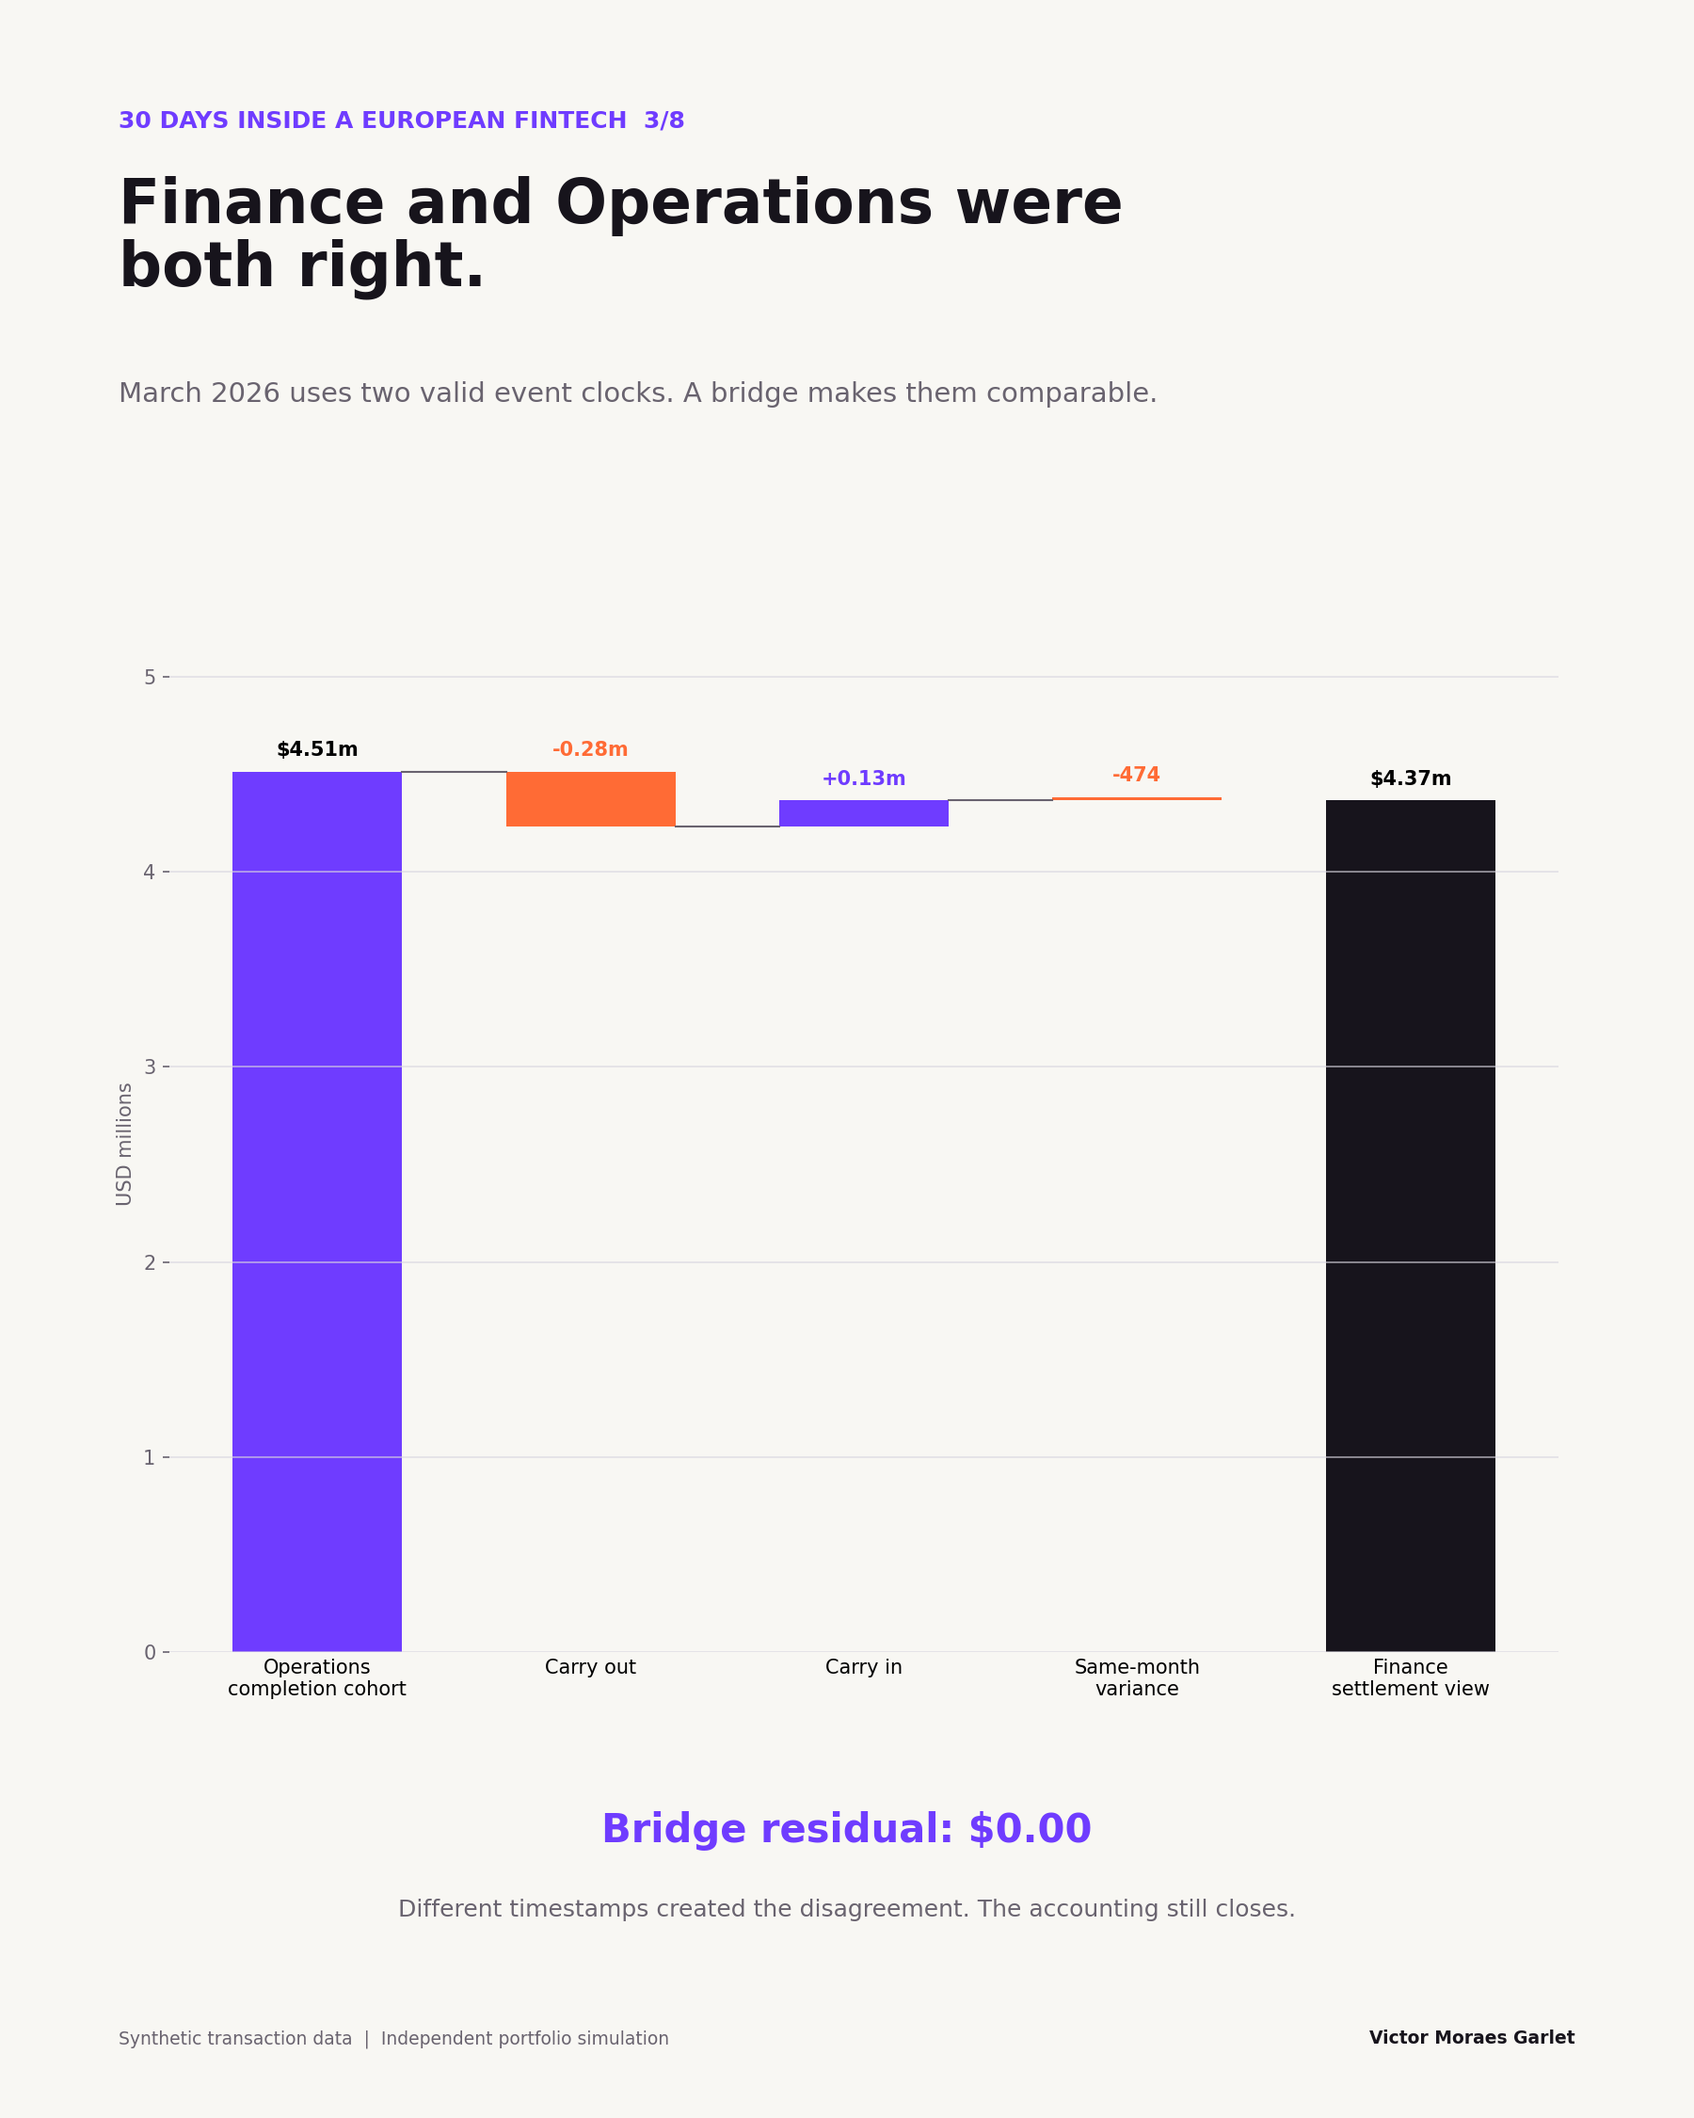
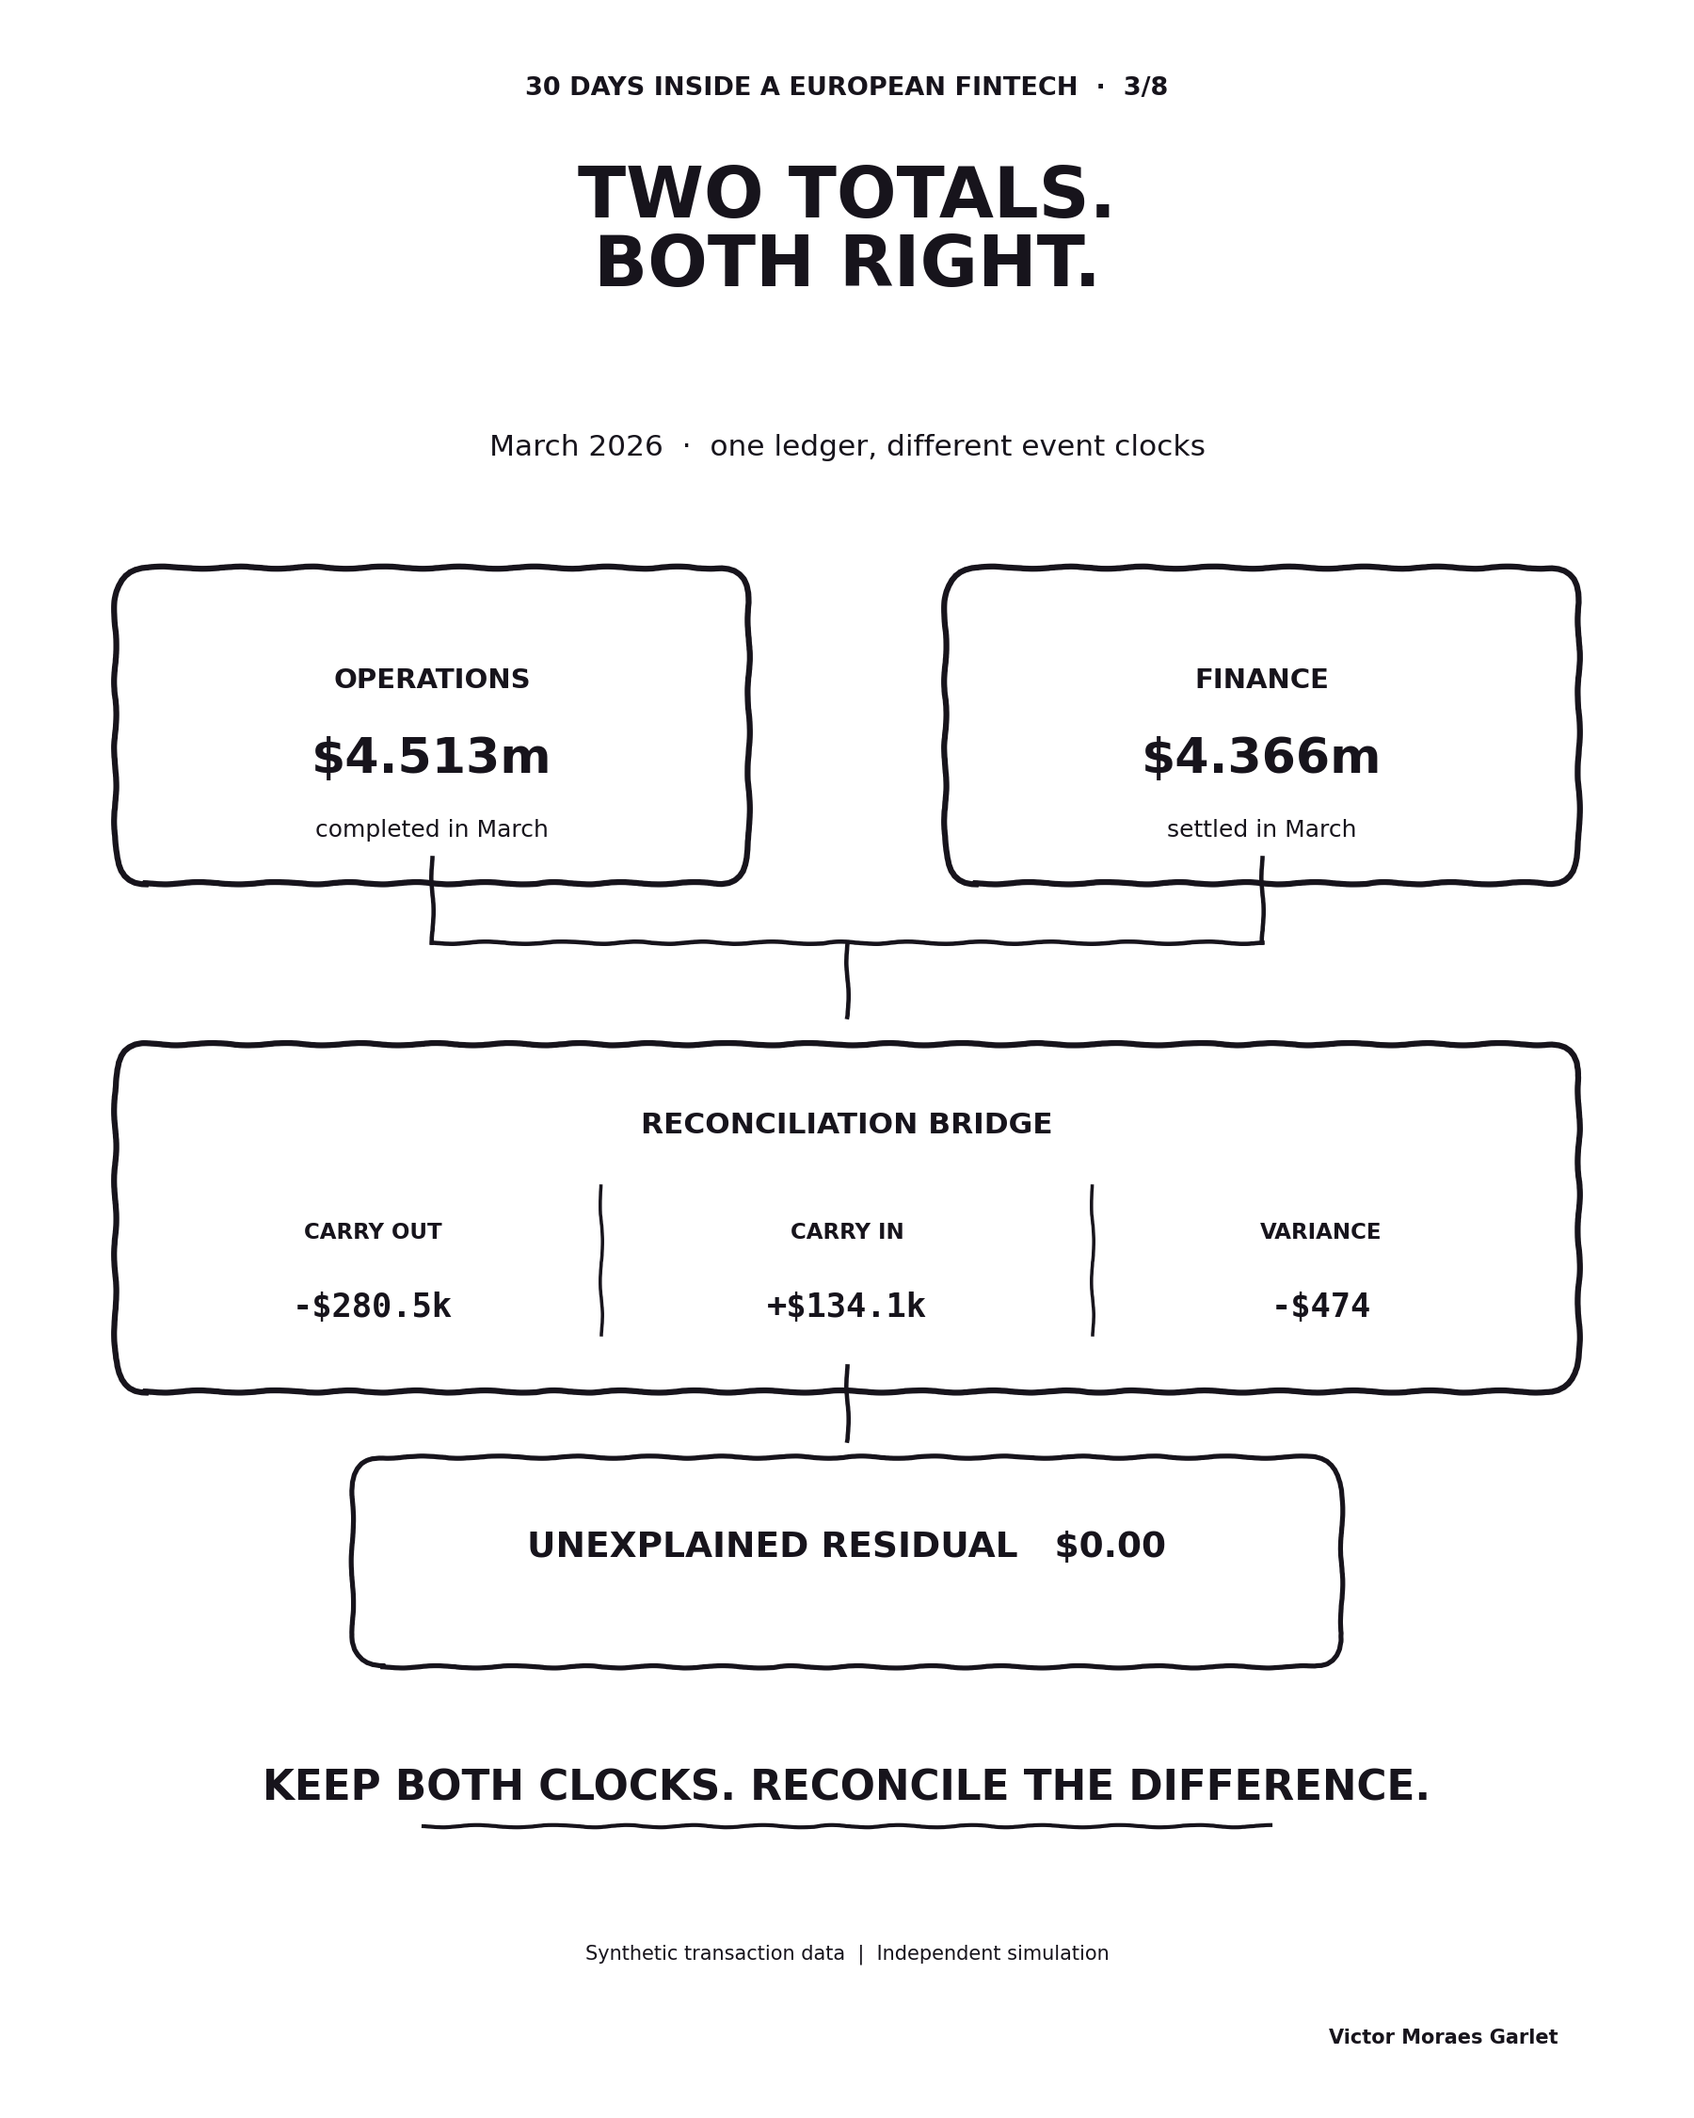
Approve and schedule episode 3

diff --git a/scripts/build_visuals.py b/scripts/build_visuals.py
@@ -200,42 +200,71 @@ def build_episode_03(connection):
         """,
     )
     start, carry_out, carry_in, variance, finance, residual = row
-    deltas = [-carry_out, carry_in, variance]
-    labels = ["Operations\ncompletion cohort", "Carry out", "Carry in", "Same-month\nvariance", "Finance\nsettlement view"]
 
-    fig, _ = base_figure(
-        3,
-        "Finance and Operations were\nboth right.",
-        "March 2026 uses two valid event clocks. A bridge makes them comparable.",
-    )
-    ax = fig.add_axes((0.10, 0.22, 0.82, 0.48), facecolor=PAPER)
-    ax.spines[:].set_visible(False)
-    ax.tick_params(axis="x", length=0, labelsize=10)
-    ax.tick_params(axis="y", colors=MUTED)
-    ax.grid(axis="y", color=LINE, linewidth=0.8, alpha=0.7)
+    fig = plt.figure(figsize=(12, 15), facecolor=WHITE)
+    ax = fig.add_axes((0, 0, 1, 1))
+    ax.set_xlim(0, 1)
+    ax.set_ylim(0, 1)
+    ax.axis("off")
 
-    positions = range(5)
-    running = start
-    ax.bar(0, start / 1_000_000, color=PURPLE, width=0.62)
-    ax.text(0, start / 1_000_000 + 0.08, f"${start / 1_000_000:.2f}m", ha="center", fontweight="bold")
-    for i, delta in enumerate(deltas, start=1):
-        next_value = running + delta
-        bottom = min(running, next_value) / 1_000_000
-        height = max(abs(delta) / 1_000_000, 0.018)
-        color = ORANGE if delta < 0 else PURPLE
-        ax.bar(i, height, bottom=bottom, color=color, width=0.62)
-        label = f"{delta / 1_000_000:+.2f}m" if abs(delta) >= 10_000 else f"{delta:+,.0f}"
-        ax.text(i, bottom + height + 0.08, label, ha="center", color=color, fontweight="bold")
-        ax.plot([i - 0.69, i - 0.31], [running / 1_000_000, running / 1_000_000], color=MUTED, linewidth=1)
-        running = next_value
-    ax.bar(4, finance / 1_000_000, color=INK, width=0.62)
-    ax.text(4, finance / 1_000_000 + 0.08, f"${finance / 1_000_000:.2f}m", ha="center", fontweight="bold")
-    ax.set_xticks(list(positions), labels)
-    ax.set_ylabel("USD millions", color=MUTED)
-    ax.set_ylim(0, max(start, finance) / 1_000_000 + 0.7)
+    def rough_card(x, y, width, height, linewidth=2.5):
+        patch = FancyBboxPatch(
+            (x, y),
+            width,
+            height,
+            boxstyle="round,pad=0.012,rounding_size=0.018",
+            linewidth=linewidth,
+            edgecolor=INK,
+            facecolor=WHITE,
+        )
+        patch.set_sketch_params(scale=1.2, length=90, randomness=2.5)
+        ax.add_patch(patch)
+
+    def rough_line(xs, ys, linewidth=2.2):
+        line, = ax.plot(xs, ys, color=INK, linewidth=linewidth)
+        line.set_sketch_params(scale=1.2, length=90, randomness=2.5)
+
+    fig.text(0.50, 0.955, "30 DAYS INSIDE A EUROPEAN FINTECH  ·  3/8", ha="center", color=INK, fontsize=13, fontweight="bold")
+    fig.text(0.50, 0.865, "TWO TOTALS.\nBOTH RIGHT.", ha="center", color=INK, fontsize=36, fontweight="bold", linespacing=1.0)
+    fig.text(0.50, 0.785, "March 2026  ·  one ledger, different event clocks", ha="center", color=INK, fontsize=15)
+
+    rough_card(0.08, 0.595, 0.35, 0.125, 3.0)
+    ax.text(0.255, 0.675, "OPERATIONS", ha="center", color=INK, fontsize=14, fontweight="bold")
+    ax.text(0.255, 0.635, f"${start / 1_000_000:.3f}m", ha="center", color=INK, fontsize=25, fontweight="bold")
+    ax.text(0.255, 0.605, "completed in March", ha="center", color=INK, fontsize=12)
+
+    rough_card(0.57, 0.595, 0.35, 0.125, 3.0)
+    ax.text(0.745, 0.675, "FINANCE", ha="center", color=INK, fontsize=14, fontweight="bold")
+    ax.text(0.745, 0.635, f"${finance / 1_000_000:.3f}m", ha="center", color=INK, fontsize=25, fontweight="bold")
+    ax.text(0.745, 0.605, "settled in March", ha="center", color=INK, fontsize=12)
+
+    rough_line([0.255, 0.255], [0.595, 0.555])
+    rough_line([0.745, 0.745], [0.595, 0.555])
+    rough_line([0.255, 0.745], [0.555, 0.555])
+    rough_line([0.50, 0.50], [0.555, 0.52])
+
+    rough_card(0.08, 0.355, 0.84, 0.14, 3.0)
+    ax.text(0.50, 0.465, "RECONCILIATION BRIDGE", ha="center", color=INK, fontsize=15, fontweight="bold")
+    bridge_items = [
+        (0.22, "CARRY OUT", f"-${carry_out / 1_000:.1f}k"),
+        (0.50, "CARRY IN", f"+${carry_in / 1_000:.1f}k"),
+        (0.78, "VARIANCE", f"-${abs(variance):,.0f}"),
+    ]
+    for x, heading, amount in bridge_items:
+        ax.text(x, 0.415, heading, ha="center", color=INK, fontsize=11, fontweight="bold")
+        ax.text(x, 0.378, amount, ha="center", color=INK, fontsize=17, fontweight="bold", family="monospace")
+    rough_line([0.355, 0.355], [0.37, 0.44], 1.7)
+    rough_line([0.645, 0.645], [0.37, 0.44], 1.7)
+
     display_residual = 0.0 if abs(residual) < 0.005 else residual
-    fig.text(0.50, 0.13, f"Bridge residual: ${display_residual:,.2f}", ha="center", color=PURPLE, fontsize=20, fontweight="bold")
-    fig.text(0.50, 0.095, "Different timestamps created the disagreement. The accounting still closes.", ha="center", color=MUTED, fontsize=12)
+    rough_line([0.50, 0.50], [0.355, 0.32])
+    rough_card(0.22, 0.225, 0.56, 0.075)
+    ax.text(0.50, 0.265, f"UNEXPLAINED RESIDUAL   ${display_residual:,.2f}", ha="center", color=INK, fontsize=18, fontweight="bold")
+
+    ax.text(0.50, 0.15, "KEEP BOTH CLOCKS. RECONCILE THE DIFFERENCE.", ha="center", color=INK, fontsize=21, fontweight="bold")
+    rough_line([0.25, 0.75], [0.138, 0.138], 2.0)
+    fig.text(0.50, 0.075, "Synthetic transaction data  |  Independent simulation", ha="center", color=INK, fontsize=10)
+    fig.text(0.92, 0.035, "Victor Moraes Garlet", ha="right", color=INK, fontsize=10, fontweight="bold")
     save(fig, "episode_03_two_reporting_clocks.png")
 
 

diff --git a/tests/test_public_content.py b/tests/test_public_content.py
@@ -37,13 +37,17 @@ class PublicContentTestCase(unittest.TestCase):
 
     def test_editorial_calendar_tracks_release_status(self):
         calendar = (PROJECT_ROOT / "content" / "editorial_calendar.md").read_text(encoding="utf-8")
-        self.assertEqual(calendar.count("Hold for approval"), 6)
+        self.assertEqual(calendar.count("Hold for approval"), 5)
         self.assertIn(
             "| 1 | Tue, 29 Sep 2026 | Frame the take-rate decision | Metric tree | Scheduled for 08:00 Europe/Dublin |",
             calendar,
         )
         self.assertIn(
             "| 2 | Fri, 2 Oct 2026 | Establish the evidence boundary | Evidence layers | Scheduled for 08:00 Europe/Dublin |",
+            calendar,
+        )
+        self.assertIn(
+            "| 3 | Tue, 6 Oct 2026 | Reconcile Finance and Operations clocks | Reporting bridge | Scheduled for 08:00 Europe/Dublin |",
             calendar,
         )
 

diff --git a/content/posts/episode_03.md b/content/posts/episode_03.md
@@ -1,46 +1,58 @@
 # Episode 3: Reconcile the event clocks
 
-**Status:** Draft for approval  
+**Status:** Scheduled for Tue, 6 Oct 2026 at 08:00 Europe/Dublin
 **Visual:** `content/visuals/episode_03_two_reporting_clocks.png`
 
 ## Post copy
+
+Finance reported $4.366m for March. Operations reported $4.513m.
+
+Neither team had made a mistake.
 
 **30 Days Inside a European Fintech [3/8]**
 
 I'm using Wise's public disclosures and synthetic data to simulate how a Senior Data Analyst could work through a fintech problem from question to decision.
 
-Finance and Operations reported different March totals.
+In Episode 2, I locked the metric boundaries before investigating the 2.18 bps take-rate decline. The next check was whether Finance and Operations were even looking at the same month. They were not.
 
-Both numbers were correct.
+Operations grouped expected settlements by completed_at, when the customer journey finished. Finance grouped actual cash movement by settled_at, when funds settled.
 
-Operations grouped transfers by completion date. That produced $4.513m of expected settlements for the March completion cohort.
+That created a $146.9k apparent gap. Treating it as leakage or loss would have sent the investigation in the wrong direction.
 
-Finance grouped cash movement by settlement date. That produced $4.366m settled in March.
+I built a reconciliation bridge at transfer grain:
 
-The gap came from event timing:
+• Operations completion cohort: $4,513,032.54
 
-• $280.5k of March completions settled outside March  
-• $134.1k of earlier completions settled during March  
-• same-month settlement variance contributed another -$474
+• Less March completions settled outside March: $280,485.85
 
-After those items, the bridge closed to $0.00.
+• Add earlier completions settled during March: $134,097.00
 
-This is why a metric contract needs more than a formula. It needs the event timestamp, grain, owner, allowed lag and reconciliation rule.
+• Less same-month settlement variance: $474.07
 
-I kept both views in the model:
+• Finance settlement view: $4,366,169.62
 
-• completion month for product and customer-experience analysis  
-• settlement month for cash and financial control
+• Unexplained residual: $0.00
 
-Forcing one team to adopt the other's clock would make one use case worse. The analytical job is to make the two views reconcilable and prevent them from being compared without context.
+Once timing was separated from value movement, the disagreement disappeared.
 
-The model now carries opening and closing timing items explicitly and tests every month to a one-cent tolerance.
+The decision was not to force both teams onto one clock.
 
-When two teams disagree on a metric, I now check the event clock before checking the arithmetic.
+Operations needs completion month to understand product and customer experience. Finance needs settlement month for cash movement and financial control. Replacing either view would make one team's analysis less useful.
 
-Quick glossary  
-*Grain = what one row represents.  
-*Completion cohort = transfers grouped by when the customer journey completed.  
-*Settlement period = transfers grouped by when funds settled.
+So the model keeps both timestamps, exposes carry-in and carry-out items, and tests every reporting month to a one-cent tolerance.
 
-This is an independent simulation inspired by Wise's public disclosures. I am not affiliated with Wise. All transaction-level data and project findings are synthetic; any company-level figures are sourced from public reports.
+That changes the conversation from “whose number is right?” to “which event does this decision need?”
+
+At this stage, I would not classify the March difference as a financial loss or change pricing because of it. I would publish both views with the bridge, assign joint ownership to Finance Analytics and Payments Operations, and investigate only the residual or exceptions that remain after timing is reconciled.
+
+Timing explained this gap. But it did not explain every settlement exception. One corridor-provider pair still looked very different from the rest. That is next.
+
+Quick glossary
+
+*Event clock = the business timestamp used to assign a record to a reporting period.
+
+*Carry-in / carry-out = activity entering or leaving the month because completion and settlement happened in different periods.
+
+*Reconciliation bridge = a calculation that explains how one valid total moves to another.
+
+Disclosure: This is an independent simulation inspired by Wise's public disclosures. I am not affiliated with Wise. All transaction-level data and project findings are synthetic; any company-level figures are sourced from public reports.

diff --git a/content/editorial_calendar.md b/content/editorial_calendar.md
@@ -6,13 +6,13 @@ Publish twice per week, Tuesday and Friday at 08:00 Europe/Dublin.
 
 The technical project can be completed in one sprint. The public story benefits from four weeks because each post has time to circulate, collect discussion and lead naturally into the next decision.
 
-Episodes 1 and 2 are scheduled. Episodes 3–8 remain on hold for review and approval.
+Episodes 1–3 are scheduled. Episodes 4–8 remain on hold for review and approval.
 
 | Episode | Date | Role in the series | Visual | Status |
 | --- | --- | --- | --- | --- |
 | 1 | Tue, 29 Sep 2026 | Frame the take-rate decision | Metric tree | Scheduled for 08:00 Europe/Dublin |
 | 2 | Fri, 2 Oct 2026 | Establish the evidence boundary | Evidence layers | Scheduled for 08:00 Europe/Dublin |
-| 3 | Tue, 6 Oct 2026 | Reconcile Finance and Operations clocks | Reporting bridge | Hold for approval |
+| 3 | Tue, 6 Oct 2026 | Reconcile Finance and Operations clocks | Reporting bridge | Scheduled for 08:00 Europe/Dublin |
 | 4 | Fri, 9 Oct 2026 | Isolate the settlement hotspot | Exception-rate comparison | Hold for approval |
 | 5 | Tue, 13 Oct 2026 | Decompose the take-rate movement | Waterfall | Hold for approval |
 | 6 | Fri, 16 Oct 2026 | Evaluate speed, cost and support | Trade-off chart | Hold for approval |
